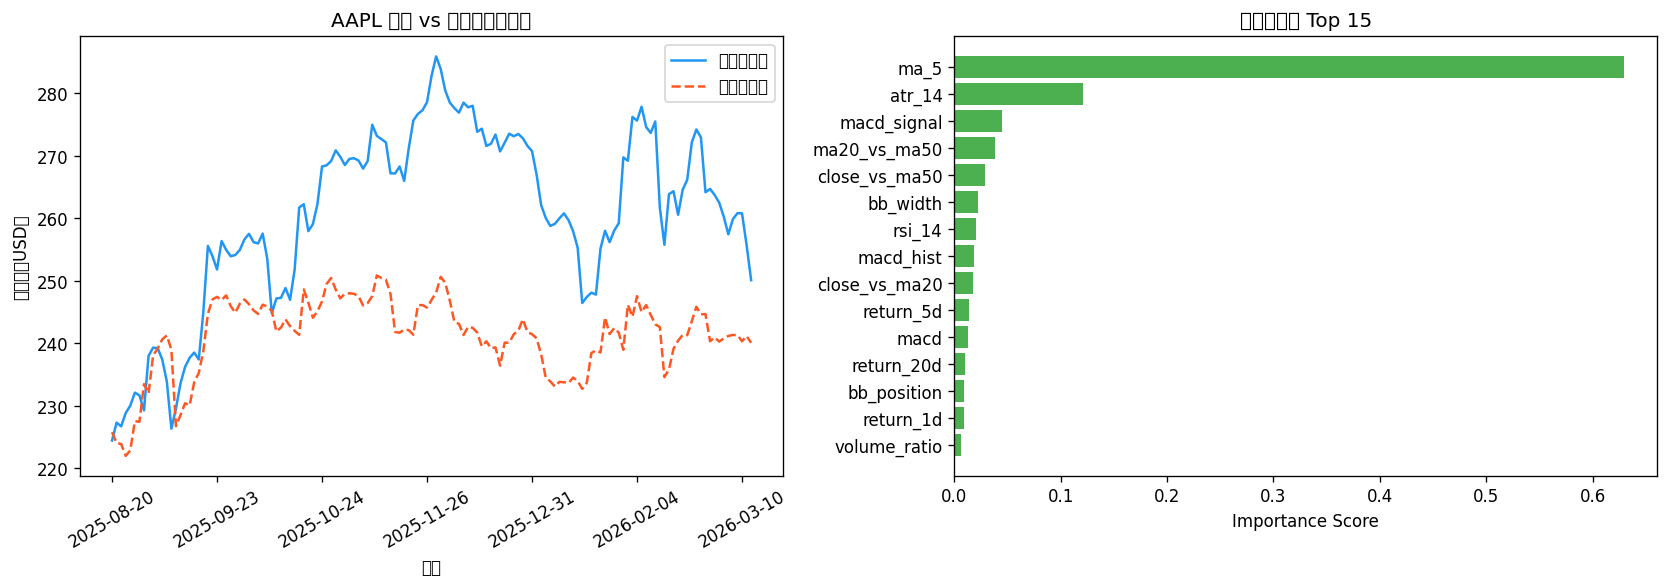
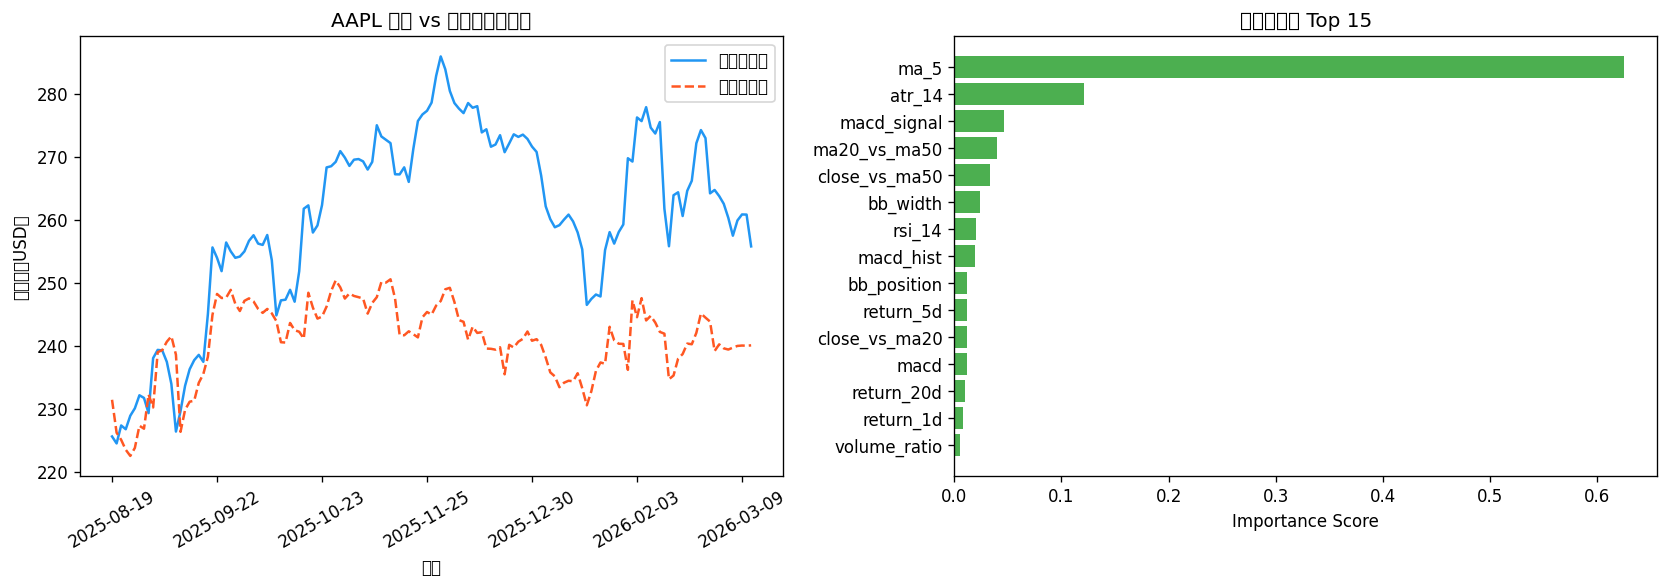
更新環境變數處理方式，將 TICKER 設為從環境變數獲取，並調整相關程式碼以確保一致性；修正訓練資料處理邏輯，確保資料完整性。

diff --git a/0315/training_pipeline.py b/0315/training_pipeline.py
@@ -20,7 +20,7 @@ warnings.filterwarnings("ignore")
 load_dotenv()
 
 # ── 設定區 ────────────────────────────────────────────────────────
-TICKER = "AAPL"
+TICKER = os.environ.get("TICKER", "AAPL").upper()
 HOPSWORKS_PROJECT  = os.environ.get("HOPSWORKS_PROJECT")
 HOPSWORKS_API_KEY  = os.environ.get("HOPSWORKS_API_KEY")
 FEATURE_GROUP_NAME = f"{TICKER.lower()}_stock_features"
@@ -158,6 +158,16 @@ def prepare_data(df: pd.DataFrame):
 
     # 確保按日期排序（時序資料不能 shuffle！）
     df = df.sort_values("date").reset_index(drop=True)
+
+    # 某些 Feature Group 版本可能沒有 target 欄位，這裡用 close 自動重建。
+    if TARGET_COL not in df.columns:
+        if "close" not in df.columns:
+            raise KeyError(f"資料缺少 {TARGET_COL}，且無法用 close 重建目標欄位。")
+        print(f"    ⚠ 找不到 {TARGET_COL}，改用 close.shift(-1) 自動建立。")
+        df[TARGET_COL] = df["close"].shift(-1)
+
+    # 去除沒有 next-day target 的最後一筆。
+    df = df.dropna(subset=[TARGET_COL]).reset_index(drop=True)
 
     # 只保留有值的特徵欄位
     available_features = [c for c in FEATURE_COLS if c in df.columns]
@@ -335,7 +345,7 @@ def main():
         df = load_features_from_local()
 
     X_train, X_test, y_train, y_test, feature_names, df_sorted = prepare_data(df)
-    split_idx = int(len(df) * 0.8)
+    split_idx = int(len(df_sorted) * 0.8)
 
     model = train_model(X_train, y_train)
     metrics, y_pred = evaluate_model(

diff --git a/0315/app.py b/0315/app.py
@@ -30,7 +30,7 @@ warnings.filterwarnings("ignore")
 load_dotenv()
 
 # ── 設定 ──────────────────────────────────────────────────────────
-TICKER             = "AAPL"
+TICKER             = os.environ.get("TICKER", "AAPL").upper()
 HOPSWORKS_PROJECT  = os.environ.get("HOPSWORKS_PROJECT", "your_project_name")
 HOPSWORKS_API_KEY  = os.environ.get("HOPSWORKS_API_KEY", "")
 PREDICTION_GROUP   = f"{TICKER.lower()}_predictions"
@@ -122,9 +122,9 @@ def _mock_prediction() -> dict:
     return {
         "ticker":          TICKER,
         "prediction_date": str(datetime.today().date()),
-        "current_close":   round(price, 2),
-        "predicted_close": round(mock_pred, 2),
-        "change_pct":      round((mock_pred - price) / price * 100, 2),
+        "current_close":   round(price, 4),
+        "predicted_close": round(mock_pred, 4),
+        "change_pct":      round((mock_pred - price) / price * 100, 4),
         "direction":       "⬆ 看漲" if mock_pred > price else "⬇ 看跌",
         "predicted_at":    datetime.now().isoformat(),
         "_note":           "⚠ 示範用模擬資料，非真實模型預測",

diff --git a/0315/feature_pipeline.py b/0315/feature_pipeline.py
@@ -21,7 +21,7 @@ warnings.filterwarnings("ignore")
 load_dotenv()
 
 # ── 設定區（改這裡就好） ──────────────────────────────────────────
-TICKER = "AAPL"          # 要預測的股票代號
+TICKER = os.environ.get("TICKER", "AAPL").upper()  # 要預測的股票代號
 PERIOD = "3y"            # 歷史資料長度（2y / 3y / 5y）
 HOPSWORKS_PROJECT = os.environ.get("HOPSWORKS_PROJECT")   # Hopsworks 上的 project 名稱
 HOPSWORKS_API_KEY = os.environ.get("HOPSWORKS_API_KEY")

diff --git a/0315/inference_pipeline.py b/0315/inference_pipeline.py
@@ -26,7 +26,7 @@ warnings.filterwarnings("ignore")
 load_dotenv()
 
 # ── 設定區 ────────────────────────────────────────────────────────
-TICKER = "AAPL"
+TICKER = os.environ.get("TICKER", "AAPL").upper()
 HOPSWORKS_PROJECT  = os.environ.get("HOPSWORKS_PROJECT")
 HOPSWORKS_API_KEY  = os.environ.get("HOPSWORKS_API_KEY")
 
